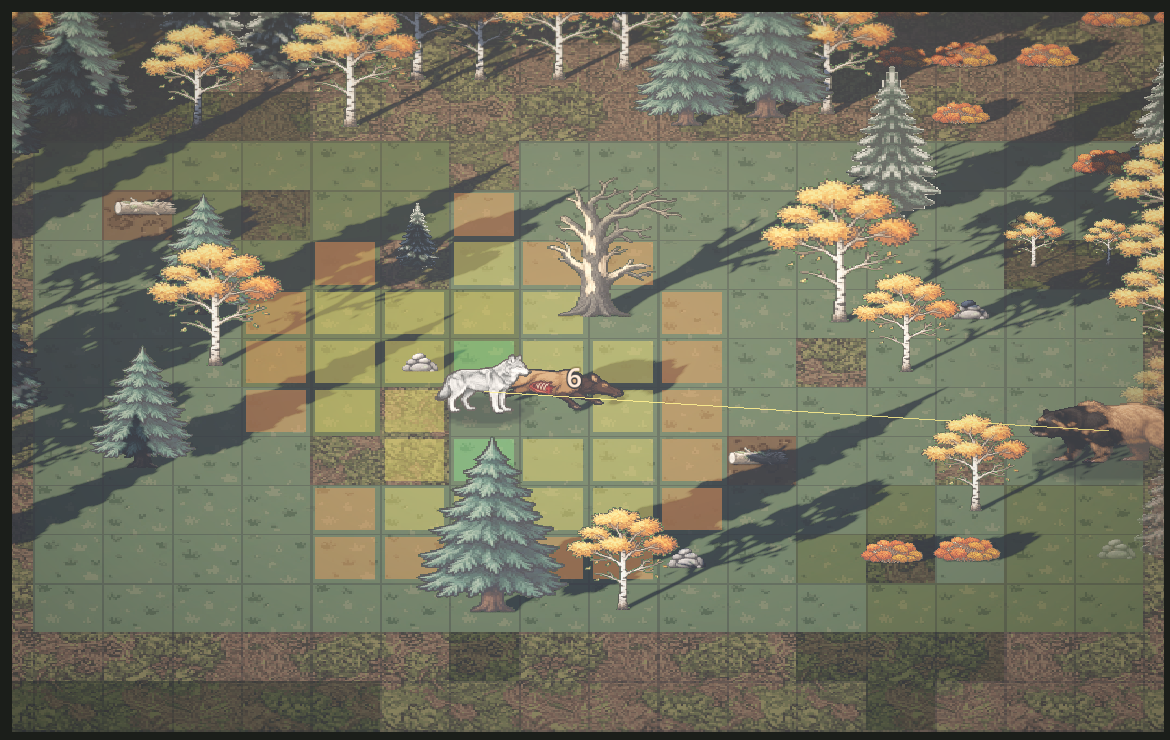
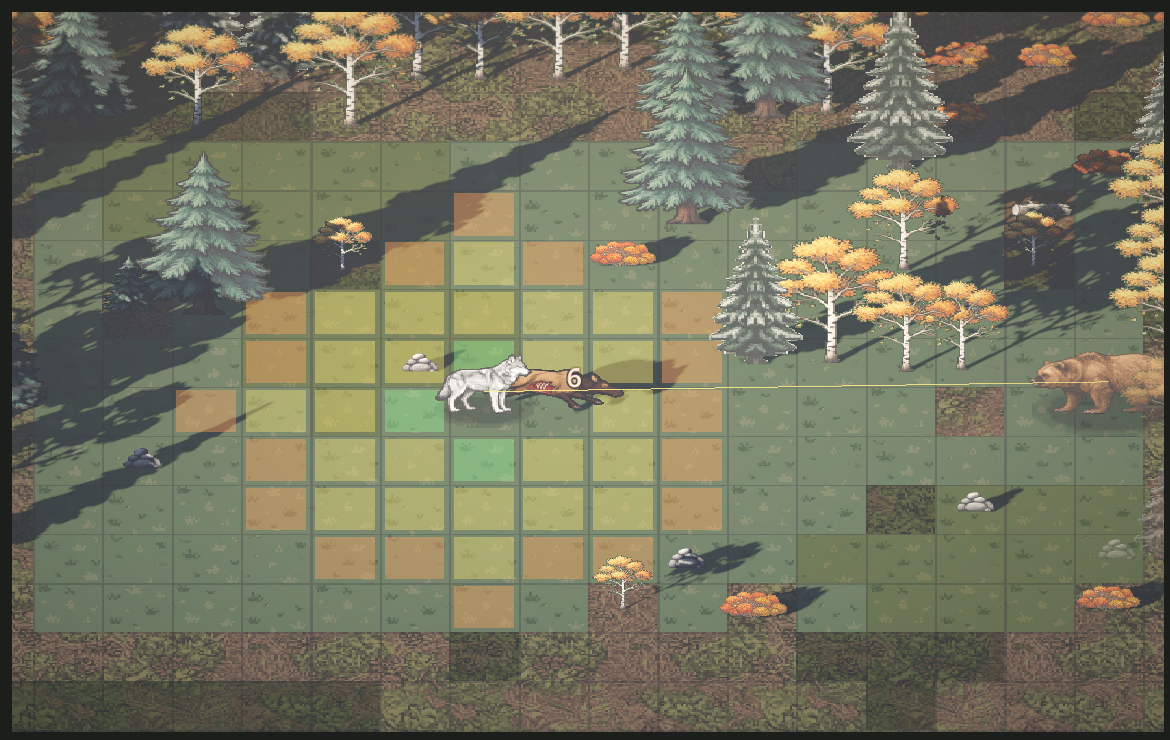
HD-2D 角色不再接受樹影（灰熊身上的黑色色塊）
Claude-Session: https://claude.ai/code/session_01HkqM82v9towmCBuEomSQC3

Changed region(s): [[0.0615, 0.0, 1.0, 0.8703], [0.9231, 0.777, 1.0, 0.8703]]

diff --git a/docs/progress.md b/docs/progress.md
@@ -5,7 +5,7 @@
 ## 目前階段
 （2026-11-08）Phase 2l 小型搶食者的戰術戰鬥寫入 SPEC（使用者同意；選 B 加猞猁：郊狼、狼獾、猞猁改成戰術戰鬥，紅狐維持選單式）。CLAUDE.md 任務順序加第 20 項。4 步實作完成，待試玩（`docs/playtest-checklist.md` 的 TC 段：郊狼、狼獾、猞猁）。
 - [x] Phase 2l 小型搶食者的戰術戰鬥（實作完成，待試玩）
-  - [x] 1. 共用的搶食者行為與郊狼一對（2026-11-08）：`opponents.coyote`（`thief: true`、血量 35、移動與衝刺都 4 格〔叼著一段肉 3 格，狼衝刺追得上〕、力量 30、速度 70；動作 咬〔3～7，命中 0.7〕、偷 steal、站定 threaten、走、逃），放棄比例 0.75、耐心 40、`ai.thief`（decoy_dist 2、每回合耐心 −3、你在旁邊時硬偷 25%、叼著肉被咬中甩掉 80%、每隻最多偷 1 次）。`TacticalCombat._ai_thief`：叼著肉往離你遠的邊緣跑、到邊緣就帶走（fled why `stole`，`meat_stolen()`）；被咬回咬；兩隻時第一隻 decoy 在你附近 2 格繞、站定盯著你，搭檔偷到、或走了就改去偷；thief 繞到殘骸離你最遠的一邊扯一塊。交給本能（你與同伴）對搶食者用新的 `guard_food`：先咬叼著肉的、再來是殘骸旁的，引開的那隻離殘骸遠就不追、回殘骸旁（原本照熊的打法叼一塊就撤，四成把殘骸讓給郊狼）。主遊戲：`game.animals` 加 coyote、`game.groups.coyote` 2（第二隻從上或下邊緣進場）；牠們都走了＝routed → drove_off，殘骸＋地上的寫回，被偷走的就沒了；你撤出＝殘骸丟給牠們。原型情境 13 `coyote_pair`。郊狼的 HD-2D 圖（同日，ChatGPT 5 張：站、走、咬、叼肉、逃跑，`arts/hd2d_2026-11-06/coyote_*.jpg`，`prep_black_wolf.py` 的 `SETS`，約灰狼的八成長）：`combat_hd2d.json` units.coyote 的 hd2d_poses；`CombatHD2D._unit_art` 加兩種姿勢：叼著肉 carry、逃走或帶著肉跑出去 run（有這兩種圖的對手才用）。環境優化（同日，ChatGPT）：夏天的雲杉 `spruce`（取代參考圖裁出來、枝葉有白點的深色松樹；`tree_mix`、`trees`、`border`、山地與牧場的 map_sets 都換成雲杉，冬天還是積雪松樹）；苔原地面 `tex_tundra`（苔蘚、地衣、矮灌木）用在苔原地圖的開闊地、密林、樹格與岩坡頂；森林密林的地面 `tex_forest_floor`（針葉、苔蘚）用在預設的密林 f（顏色倍率 0.62／0.72／0.6 → 0.95）。這兩張材質是 1408×768、左右 704 一個循環、上下不重複 → 取 704×704、上下接縫用多出的 64 行淡入（`prep_props.py` 的 `SEAM`），縮成 176（4 格重複一次）；苔原降低對比 0.65。再補（同日，ChatGPT 5 張）：秋天的白樺 `birch_autumn`（秋天時 tree_mix 的白樺換成這張，`autumn_swap`；兩個畫面設 `cfg.season`）；北美馴鹿、大角羊的殘骸（`prep_gemini_prey.py` 的 `carcass_caribou`〔頭在左，翻轉〕、`carcass_bighorn`，`combat_hd2d.json` 的 `carcass.hd`；原本用鹿的殘骸）；牧場的小木屋 `cabin`（約 3 格寬，放在地圖上緣外面，`edge_props.extra`）與乾草堆 `haystack`（開闊地 2.5% 的格子，牧場的 map_sets）。牧場沒有截圖（測試工具開不了牧場地圖）。再補（同日，ChatGPT）：秋天的灌木 `shrub_autumn`（autumn_swap：灌木秋天換成這張）、另一種形狀的灌木 `shrub_b`（夏天和原本的灌木輪替，增加變化；兩張都比原本的寬 → fixed_scale 0.4 約 0.9 格）；馬鹿、白尾鹿、野牛的殘骸改用 ChatGPT 畫的（躺著、肋骨露出，和駝鹿、馴鹿、大角羊一致；`prep_gemini_prey.py` 的 carcass_elk／deer／bison，`prep_pixellab.py` 不再輸出這三張）。殘骸依階段（使用者要求，圖之後慢慢補）：戰術戰鬥的殘骸帶 `stage`（current_feeding 的 life_stage：juvenile 幼體、buck 雄性、adult 雌性／成年），`carcass.hd` 先找 `<動物>.<階段>` → `<動物>` → `_default`；幼體沒有專屬圖時照 `juvenile_scale` 0.65 縮小（`CombatHD2D`）。白尾鹿、騾鹿明確對應到鹿的殘骸。灰狼「咬住不放」（同日，ChatGPT 出了 6 張只有一張能用：壓低身子、前腳往前撐、重心在後，`arts/hd2d_2026-11-06/wolf_r4_hold.png`，`prep_wolf.py` 照第二輪走路的色盤調色、寬 1.55 格 → `hdwolf_hold`）。戰術狩獵的狼原本一直是站的圖，改成跟著動作換（`HuntHD2D._wolf_pose`，`hunt_hd2d.json` 的 `wolf_poses`）：咬住獵物（或獵到了）咬住不放、潛行 stalk、小跑或衝刺走路兩格輪流、沒動站著；同伴還是站的圖。咬喉、撲倒不另外出圖（使用者同意：咬喉也用咬住；壓倒之後獵物換成殘骸圖可以之後再接）。狼獾的 HD-2D 圖（同日，ChatGPT 4 張：站、走、撲咬〔張嘴伸爪，也當示威、守食物〕、吃，`wolverine_*.jpg`，含尾巴約灰狼的七成五長）：先處理好、`combat_hd2d.json` 加 units.wolverine，第 2 步狼獾進戰術戰鬥時用。模擬 `tactical_thief_sim`：1 歲 白尾鹿 被偷走 1.37 段／馬鹿 1.46，3 歲 0.93／1.03，你受傷 0～0.6，約 7 回合，都是牠們走了（選單式「不理」固定少 1 段，第 4 步再校準）。R-125 加第 10 段。
+  - [x] 1. 共用的搶食者行為與郊狼一對（2026-11-08）：`opponents.coyote`（`thief: true`、血量 35、移動與衝刺都 4 格〔叼著一段肉 3 格，狼衝刺追得上〕、力量 30、速度 70；動作 咬〔3～7，命中 0.7〕、偷 steal、站定 threaten、走、逃），放棄比例 0.75、耐心 40、`ai.thief`（decoy_dist 2、每回合耐心 −3、你在旁邊時硬偷 25%、叼著肉被咬中甩掉 80%、每隻最多偷 1 次）。`TacticalCombat._ai_thief`：叼著肉往離你遠的邊緣跑、到邊緣就帶走（fled why `stole`，`meat_stolen()`）；被咬回咬；兩隻時第一隻 decoy 在你附近 2 格繞、站定盯著你，搭檔偷到、或走了就改去偷；thief 繞到殘骸離你最遠的一邊扯一塊。交給本能（你與同伴）對搶食者用新的 `guard_food`：先咬叼著肉的、再來是殘骸旁的，引開的那隻離殘骸遠就不追、回殘骸旁（原本照熊的打法叼一塊就撤，四成把殘骸讓給郊狼）。主遊戲：`game.animals` 加 coyote、`game.groups.coyote` 2（第二隻從上或下邊緣進場）；牠們都走了＝routed → drove_off，殘骸＋地上的寫回，被偷走的就沒了；你撤出＝殘骸丟給牠們。原型情境 13 `coyote_pair`。郊狼的 HD-2D 圖（同日，ChatGPT 5 張：站、走、咬、叼肉、逃跑，`arts/hd2d_2026-11-06/coyote_*.jpg`，`prep_black_wolf.py` 的 `SETS`，約灰狼的八成長）：`combat_hd2d.json` units.coyote 的 hd2d_poses；`CombatHD2D._unit_art` 加兩種姿勢：叼著肉 carry、逃走或帶著肉跑出去 run（有這兩種圖的對手才用）。環境優化（同日，ChatGPT）：夏天的雲杉 `spruce`（取代參考圖裁出來、枝葉有白點的深色松樹；`tree_mix`、`trees`、`border`、山地與牧場的 map_sets 都換成雲杉，冬天還是積雪松樹）；苔原地面 `tex_tundra`（苔蘚、地衣、矮灌木）用在苔原地圖的開闊地、密林、樹格與岩坡頂；森林密林的地面 `tex_forest_floor`（針葉、苔蘚）用在預設的密林 f（顏色倍率 0.62／0.72／0.6 → 0.95）。這兩張材質是 1408×768、左右 704 一個循環、上下不重複 → 取 704×704、上下接縫用多出的 64 行淡入（`prep_props.py` 的 `SEAM`），縮成 176（4 格重複一次）；苔原降低對比 0.65。再補（同日，ChatGPT 5 張）：秋天的白樺 `birch_autumn`（秋天時 tree_mix 的白樺換成這張，`autumn_swap`；兩個畫面設 `cfg.season`）；北美馴鹿、大角羊的殘骸（`prep_gemini_prey.py` 的 `carcass_caribou`〔頭在左，翻轉〕、`carcass_bighorn`，`combat_hd2d.json` 的 `carcass.hd`；原本用鹿的殘骸）；牧場的小木屋 `cabin`（約 3 格寬，放在地圖上緣外面，`edge_props.extra`）與乾草堆 `haystack`（開闊地 2.5% 的格子，牧場的 map_sets）。牧場沒有截圖（測試工具開不了牧場地圖）。再補（同日，ChatGPT）：秋天的灌木 `shrub_autumn`（autumn_swap：灌木秋天換成這張）、另一種形狀的灌木 `shrub_b`（夏天和原本的灌木輪替，增加變化；兩張都比原本的寬 → fixed_scale 0.4 約 0.9 格）；馬鹿、白尾鹿、野牛的殘骸改用 ChatGPT 畫的（躺著、肋骨露出，和駝鹿、馴鹿、大角羊一致；`prep_gemini_prey.py` 的 carcass_elk／deer／bison，`prep_pixellab.py` 不再輸出這三張）。殘骸依階段（使用者要求，圖之後慢慢補）：戰術戰鬥的殘骸帶 `stage`（current_feeding 的 life_stage：juvenile 幼體、buck 雄性、adult 雌性／成年），`carcass.hd` 先找 `<動物>.<階段>` → `<動物>` → `_default`；幼體沒有專屬圖時照 `juvenile_scale` 0.65 縮小（`CombatHD2D`）。白尾鹿、騾鹿明確對應到鹿的殘骸。使用者回報截圖裡灰熊有黑色色塊：是樹的影子打在灰熊（角色的 Sprite3D 會接受影子）。`HD2DBoard.unit` 的角色改用自己的材質（`disable_receive_shadows`、alpha scissor、頂點顏色當 albedo 保留 modulate；AtlasTexture 用底圖），光線與時段的顏色照常，只是不接受別的物件投下的影子；樹、物件還是會接受影子。灰狼「咬住不放」（同日，ChatGPT 出了 6 張只有一張能用：壓低身子、前腳往前撐、重心在後，`arts/hd2d_2026-11-06/wolf_r4_hold.png`，`prep_wolf.py` 照第二輪走路的色盤調色、寬 1.55 格 → `hdwolf_hold`）。戰術狩獵的狼原本一直是站的圖，改成跟著動作換（`HuntHD2D._wolf_pose`，`hunt_hd2d.json` 的 `wolf_poses`）：咬住獵物（或獵到了）咬住不放、潛行 stalk、小跑或衝刺走路兩格輪流、沒動站著；同伴還是站的圖。咬喉、撲倒不另外出圖（使用者同意：咬喉也用咬住；壓倒之後獵物換成殘骸圖可以之後再接）。狼獾的 HD-2D 圖（同日，ChatGPT 4 張：站、走、撲咬〔張嘴伸爪，也當示威、守食物〕、吃，`wolverine_*.jpg`，含尾巴約灰狼的七成五長）：先處理好、`combat_hd2d.json` 加 units.wolverine，第 2 步狼獾進戰術戰鬥時用。模擬 `tactical_thief_sim`：1 歲 白尾鹿 被偷走 1.37 段／馬鹿 1.46，3 歲 0.93／1.03，你受傷 0～0.6，約 7 回合，都是牠們走了（選單式「不理」固定少 1 段，第 4 步再校準）。R-125 加第 10 段。
   - [x] 2. 狼獾（含分肉）（2026-11-08）：`opponents.wolverine`（`shareable: true`、移動 3／衝刺 4、動作 咬、守食物、吃、走、逃；用一般的 AI：到殘骸旁吃、你靠近時守食物），能力與血量照狼獾這隻 NPC；咬 4～7、守食物 3～5、放棄比例 0.3、耐心 160、bold 0.3～0.8。你方新動作「讓牠一起吃」`share`（有 shareable 的對手、殘骸還有肉時）：結束這一場，outcome `share` → 主遊戲照選單式的分享（先寫回戰術戰鬥後剩下的段數，再少一段、牠離開）。不會想殺你：`_tc_hurt` 對 `never_lethal` 的對手一律不致死（重傷時被打到 0 只會被打倒）。回到殘骸時牠在吃 → 從「對手佔著殘骸」開始（`start_wolverine_combat` 設 tc_layout）。主遊戲的利害倍率 `c.stake_mult` 乘進戰術戰鬥的 stake，一般 AI 的放棄比例 ÷ stake（狼獾在旁邊等你吃完時 0.5 → 比較早放棄，照選單式的 waiting_stake_mult）。交給本能（你）對狼獾也用守殘骸，血量低於 `ally.share_hp` 0.55 就讓牠一起吃。校準（`tactical_thief_sim`，對照選單式強攻型硬打）：3 歲 你在吃時牠來了 趕走 91%、受傷 27（選單式 99%、23），回到殘骸時牠在吃 72%、37；1 歲 30%／10% 趕走、受傷約 38～40，其他讓牠一起吃（選單式 1 歲 60%、受傷 51）。狼獾的 HD-2D 圖接上（units.wolverine）。原型情境 14 `wolverine_carcass`。R-125 加第 11 段。
   - [x] 3. 猞猁（2026-11-08）：`opponents.lynx`（`thief: true`、`cover: "Ttfr"`、`corner_swipe` 0.45、血量 40、叼著雪兔一回合 2.5 格〔你衝刺 4 格〕、動作 揮爪〔4～9〕、走、逃），放棄比例 0.8、耐心 60。`_ai_thief` 叼著東西的那一段：有 cover 時往最近的掩蔽跑（`_cover_goal`：密林、岩坡站上去，樹站到旁邊；都沒有就往邊緣），到了就帶著雪兔不見了（fled why `escaped`）；你貼在旁邊時回頭揮爪；被咬中多半丟下雪兔（ai.thief.drop_on_hit 0.8），沒叼著東西就跳上樹走了（why `gave_up`）。情境的對手可以開場叼著東西（`opponent.carrying`）。主遊戲：`game.animals` 加 lynx、新的起始位置 `layouts.lynx`（你在左邊 3 格外衝過去，牠周圍 `clear_cover` 5 格內的樹、密林、岩坡清掉，不然開場一步就鑽進去）；結果：牠帶著雪兔不見了＝parted（沒搶到），雪兔掉在地上或被你叼走、牠走了＝drove_off（finish_combat 照原本給雪兔）。悄悄叼走失敗時（`lynx_sneak` 回 `tactical`，不再擲回頭抓一下）接著 `start_lynx_combat(true)` 的戰術戰鬥（Game.gd、自動玩家都是）。交給本能用 `guard_food`（先咬叼著東西的）。原型情境 15 `lynx_hare`。猞猁的 HD-2D 圖（ChatGPT 5 張：站、走、揮爪、叼著雪兔跑、示威，約灰狼的八成長）。模擬：搶到雪兔 1 歲 57%、3 歲 66%，受傷約 1，約 3.5 回合（選單式強攻硬搶 100%）。R-125 加第 12 段。
   - [x] 4. 校準（2026-11-08）：郊狼 `steal_when_watched` 0.25 → 0.12、新增 `follow_up` 0.5（引開的那隻在搭檔偷到或走了以後，只有一半機率接著去偷）→ 被偷走 1 歲約 1.1 段、3 歲約 0.8 段（選單式「不理」1 段）；猞猁 `clear_cover` 5 → 6、補上「受傷到放棄線就丟下雪兔」（叼著時也算）→ 搶到雪兔 1 歲 58%、3 歲 71%（選單式 100%）；狼獾不變（3 歲 你在吃時 趕走約 88%、受傷約 30）。一生模擬 `life_pressure` 40 隻（戰術戰鬥／TC_OFF 全部選單式）：每年 7.37／6.25 場戰鬥、每年重傷 0.59／0.53 次（+11%）、戰死 0／0、壽命 10.1／10.0；挨餓 成年 3.2／3.2、老年 8.9／6.8 天（老年多約 2 天，40 隻的雜訊與猞猁、郊狼的損失都有可能，先記著）、餓死 3／2 隻。通過 SPEC 驗收 2（±30%、戰鬥死亡不增加）。
